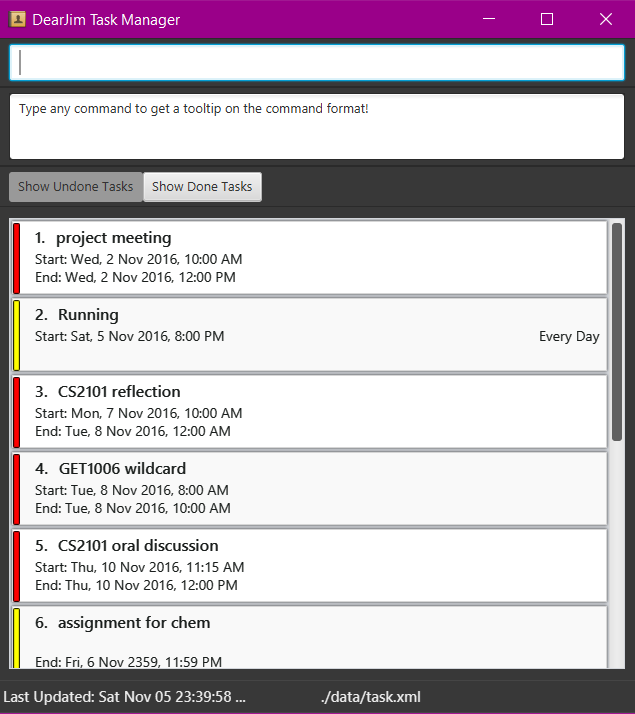
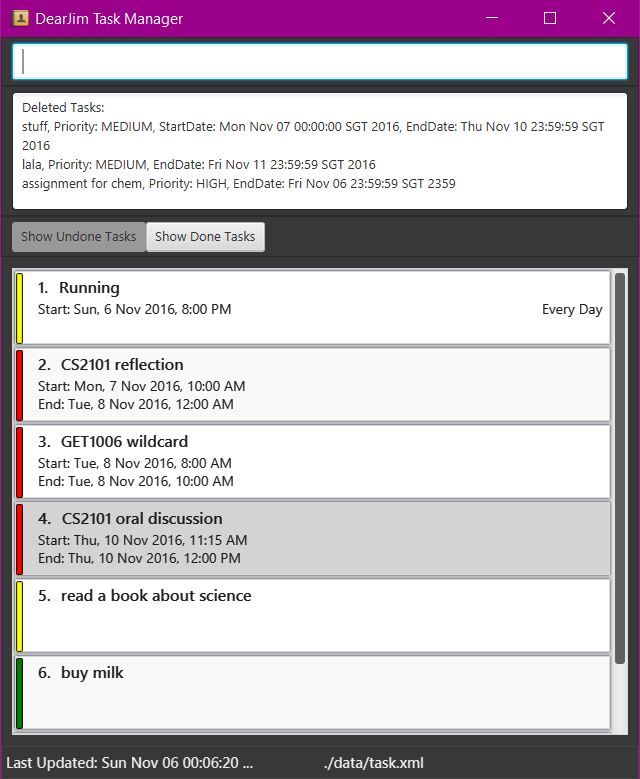
Add list day

diff --git a/docs/UserGuide.md b/docs/UserGuide.md
@@ -224,7 +224,6 @@ Format: `edit INDEX [NAME] [start DATE_TIME] [end DATE_TIME] [repeat every RECUR
 Examples:
 * `Company meeting tonight at 7pm to 9pm`
 * `edit 2 Company meeting tomorrow morning at 7am to 9am -high`
-
 * `Buy coffee for boss by 8am repeat every day`
 * `edit 3 Buy coffee for boss by 7am repeat every 2 days`
 
@@ -252,7 +251,7 @@ Examples:
 
 
 ### Deleting a task: `delete`
-Deletes an existing task in DearJim. This will remove them from the storage. <br>
+Deletes an existing task in DearJim. This will remove it from the storage. <br>
 Format: `delete INDEX`
 > You can `delete` multiple tasks using a single command by entering the indexes of the tasks you want to delete, separating each index with a space.
 
@@ -311,17 +310,25 @@ Format: `redo`
 Switches the task list view to the undone list view, to show all undone tasks in DearJim.<br>
 Format: `list`
 
-Example:
-* `list`
 <br>
+
+**_Listing all undone tasks of a specific day_**
+
+Switches the task list view to the undone list view, to show all tasks on the day specified.<br>
+Format: `list DAY`
+
+Example:
+* `list today`
+* `list tmr`
+* `list monday`
+
+<br>
+
 
 **_Listing all done tasks_**
 
 Switches the task list view to the done list view, to show all done tasks in DearJim.<br>
 Format: `list done`
-
-Example:
-* `list done`
 
 > `add` and `edit` commands do not work in done list view. As such, you are not able to directly add tasks into the done list, or edit the details of done tasks. 
 <br/>
